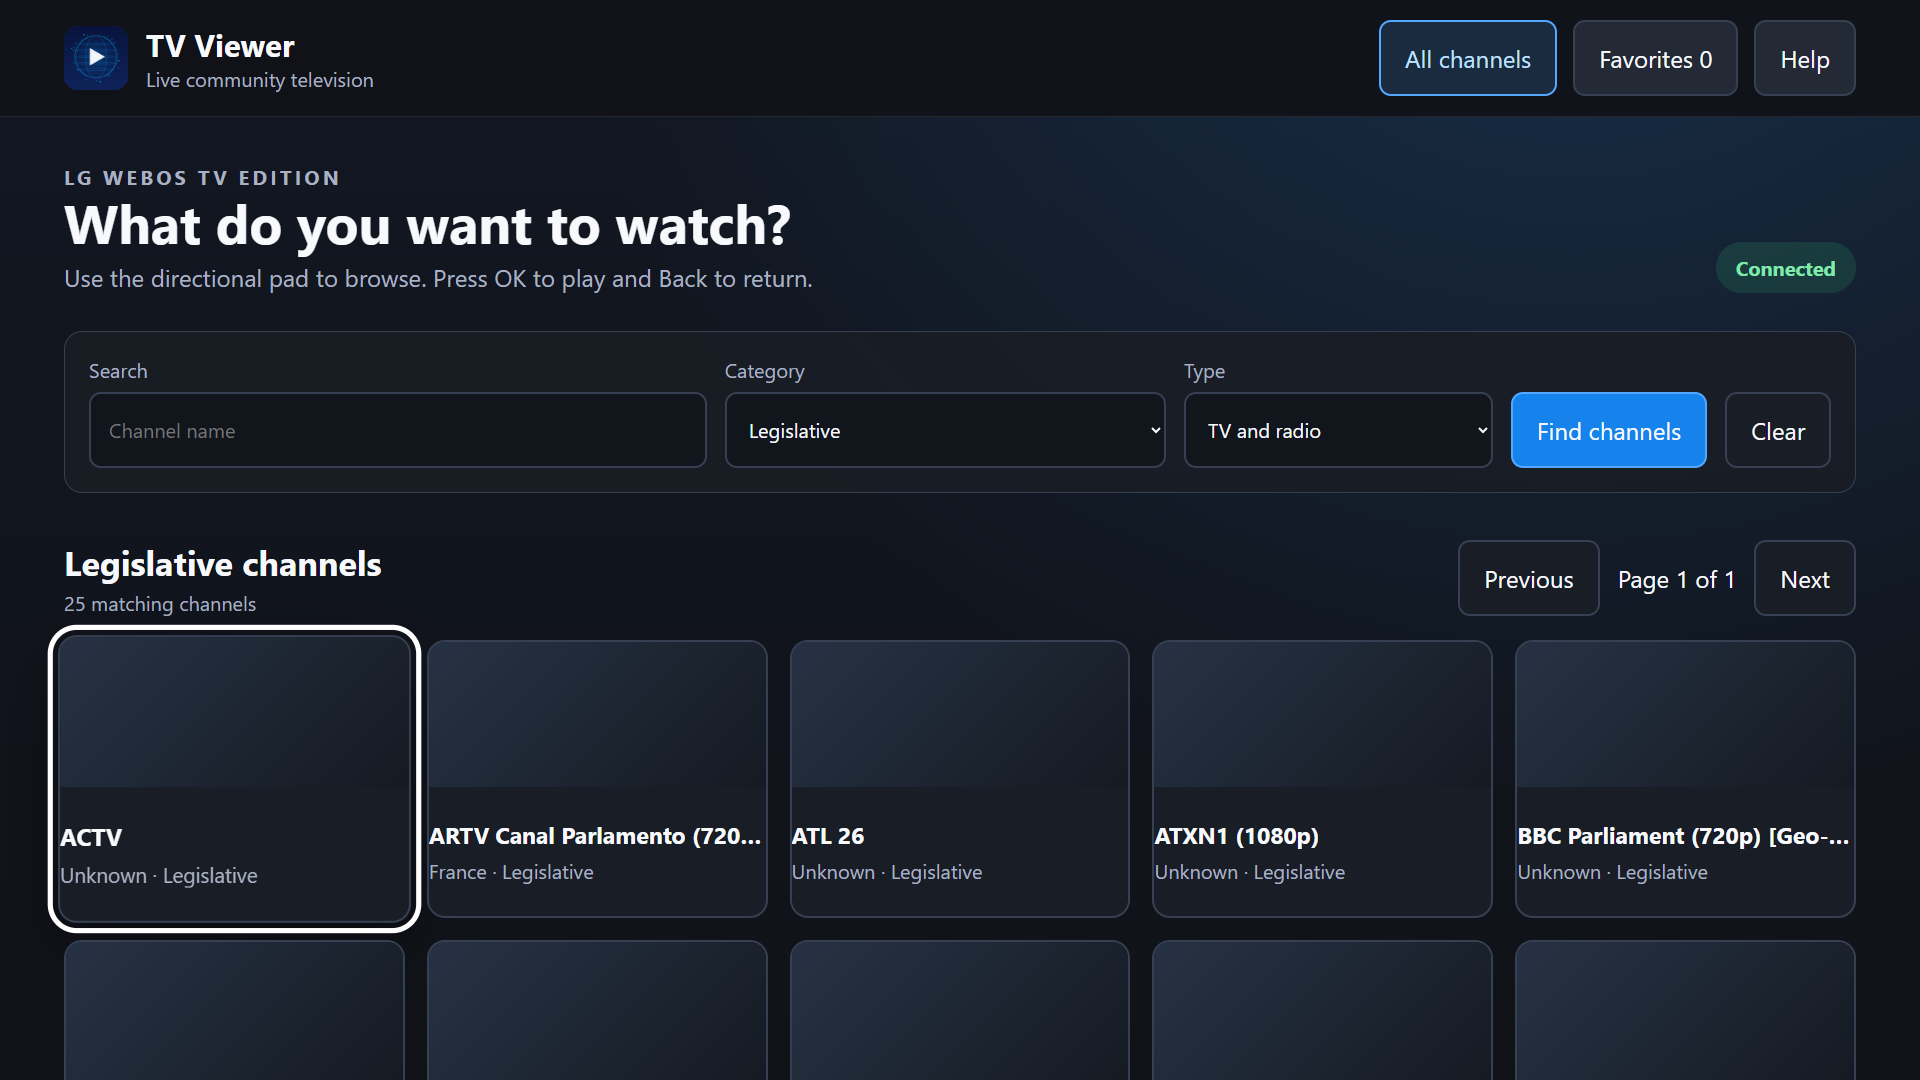
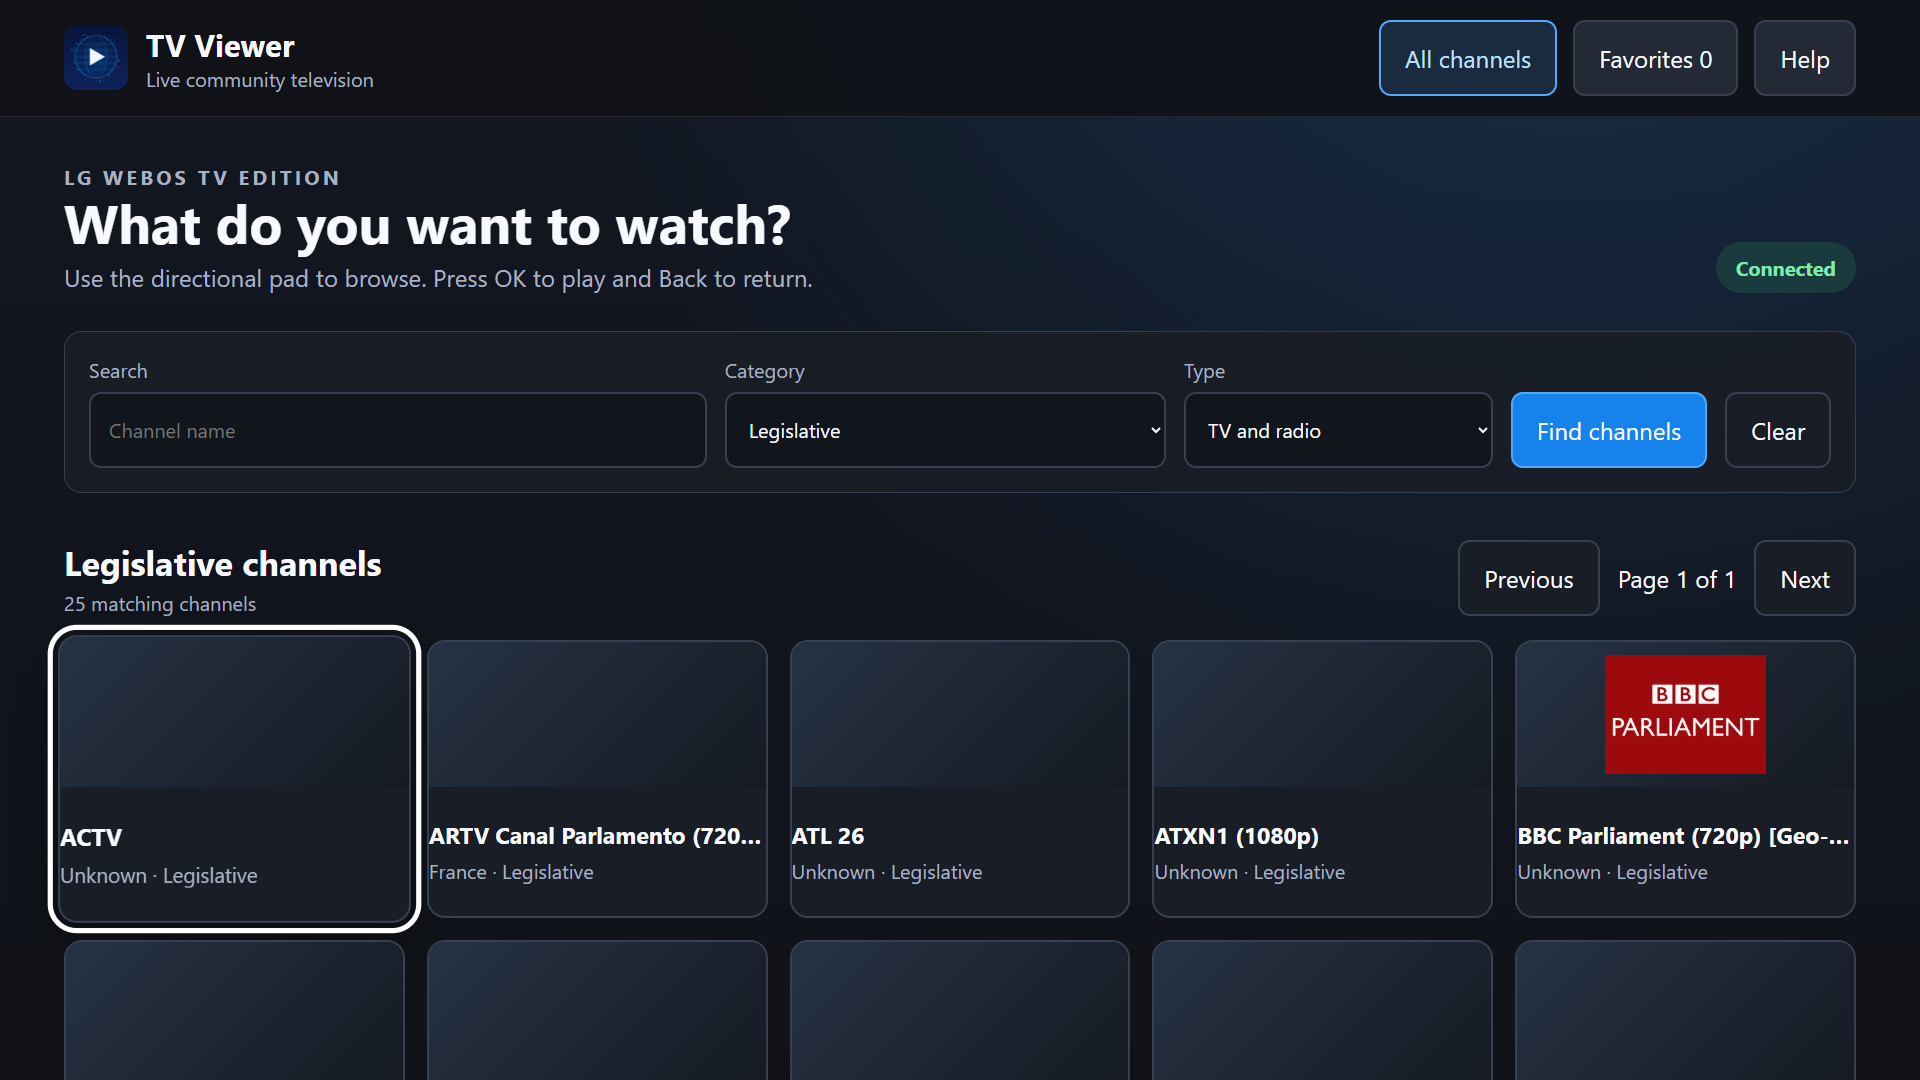
Prepare portable LG submission bundle with accurate QA disclosures

Changed region(s): [[0.8125, 0.5806, 0.9375, 0.7333]]

diff --git a/store-listings/lg-webos/tools/prepare_checklist.py b/store-listings/lg-webos/tools/prepare_checklist.py
@@ -1,4 +1,5 @@
 from copy import copy
+from datetime import date
 from pathlib import Path
 
 from openpyxl import load_workbook
@@ -11,7 +12,7 @@ OUTPUT = ROOT / "lg-self-evaluation-checklist-5.0-tv-viewer-draft.xlsx"
 
 PASS = {
     5: "Headless Chromium launch and packaged-app smoke test passed.",
-    6: "Main page, loading state, splash, overscan-safe layout, and 16:9 screenshots reviewed at 1920x1080.",
+    6: "Desktop browser checks cover the main page, loading state, and 16:9 screenshots at 1920x1080. TV overscan remains pending.",
     9: "Both 1920x1080 and 1280x720 IPKs are built and validated.",
     10: "English UI and Seller Lounge screenshots visually reviewed for clipping and broken text.",
     11: "All selectable controls implement a visible white focus outline and scale state.",
@@ -104,7 +105,7 @@ for sheet in wb.worksheets:
     sheet.freeze_panes = copy(sheet.freeze_panes)
 
 ws["N1"].comment = Comment(
-    "DRAFT prepared September 30, 2026. Yellow blank result cells require "
+    f"DRAFT prepared {date.today().isoformat()}. Yellow blank result cells require "
     "physical LG TV or webOS Cloud Test Lab verification before upload.",
     "TV Viewer",
 )

diff --git a/store-listings/lg-webos/tools/assemble_submission.py b/store-listings/lg-webos/tools/assemble_submission.py
@@ -259,6 +259,13 @@ def main() -> None:
         shutil.copy2(source, target)
         copied.append(target)
 
+    for source in sorted(UPLOAD_DIR.iterdir()):
+        if source.is_file():
+            target = BUNDLE_DIR / "upload-ready" / source.name
+            target.parent.mkdir(parents=True, exist_ok=True)
+            shutil.copy2(source, target)
+            copied.append(target)
+
     manifest = BUNDLE_DIR / "SHA256SUMS.txt"
     manifest.write_text(
         "\n".join(

diff --git a/PRIVACY_POLICY.md b/PRIVACY_POLICY.md
@@ -1,6 +1,6 @@
 # Privacy Policy — TV Viewer
 
-**Last Updated:** October 14, 2026
+**Last Updated:** October 16, 2026
 
 ## Overview
 
@@ -118,11 +118,21 @@ submissions are published when submitted.
 
 ## Content Disclaimer
 
-TV Viewer aggregates publicly available IPTV streams. Some channels may contain mature content. Users must confirm they are 18+ on first launch. Parental controls are available in Settings.
+The Android and desktop editions aggregate publicly available IPTV streams.
+Some channels may contain mature content. Their first-run flow requires an
+18+ confirmation; parental controls are available in Settings.
+
+The LG webOS edition instead limits discovery to public-interest categories
+and shows a content and privacy notice. It does not provide the Android
+Settings controls or an age-verification service. Category and name filtering
+cannot guarantee the suitability or distribution rights of every live stream.
 
 ## Children's Privacy
 
-This app is not intended for children under 18. We do not knowingly collect data from minors.
+TV Viewer is not directed at children. The Android and desktop editions require
+an 18+ confirmation. The LG edition's store age rating must be determined
+through LG's questionnaire and review, not inferred from its catalog filters.
+We do not knowingly collect data from minors.
 
 ## Changes to This Policy
 
@@ -130,6 +140,7 @@ We may update this policy with new app versions. Changes will be noted in the ap
 
 ## Contact
 
-For privacy questions or data deletion requests:
-- **GitHub Issues**: [github.com/tv-viewer-app/tv_viewer/issues](https://github.com/tv-viewer-app/tv_viewer/issues)
-- **GitHub Issues**: [Report a privacy concern](https://github.com/tv-viewer-app/tv_viewer/issues)
+For private privacy questions or data deletion requests, contact
+tvviewerapp@proton.me. Do not include personal data in public GitHub issues.
+For non-sensitive policy questions, use
+[GitHub Issues](https://github.com/tv-viewer-app/tv_viewer/issues).

diff --git a/store-listings/lg-webos/README.md b/store-listings/lg-webos/README.md
@@ -77,8 +77,22 @@ Generate one flat folder containing every file needed during Seller Lounge
 registration:
 
 ```powershell
+npm --prefix webos_app ci
+npm --prefix webos_app run validate
+npm --prefix webos_app run package
+npm --prefix webos_app run capture-store-assets
+npm --prefix webos_app run generate-ux-scenario
+python store-listings\lg-webos\tools\prepare_checklist.py
 python store-listings\lg-webos\tools\assemble_submission.py
 ```
+
+Before running `prepare_checklist.py`, download LG's official
+[App Self Checklist archive](https://webostv.developer.lge.com/assets/checklist/documents_for_app_qa.zip).
+Save its `self_evaluation_checklist_5.0.xlsx` as
+`store-listings\lg-webos\templates\lg-self-evaluation-checklist-5.0-original.xlsx`.
+The template and generated documents are intentionally not committed.
+Screenshot capture requires Microsoft Edge (or its path in `EDGE_PATH`).
+Browser checks are preparation evidence, not LG device certification.
 
 Use:
 
@@ -90,6 +104,12 @@ store-listings\lg-webos\upload-ready\
 to upload. The folder includes both IPKs, the 400x400 app icon, the 1920x1080
 launcher background, screenshots, QA documents, privacy policy, and store
 listing copy.
+
+The portable `dist\lg-webos-submission-v2.25.0.zip` also includes this flat
+`upload-ready` folder, both field guides, and SHA-256 manifests. The checklist
+is a draft until the pending device and content-review cases are completed.
+Screenshots are desktop-browser illustrations; the player-controls image uses
+the app poster and is not evidence of successful stream playback.
 
 ## Certification notes
 

diff --git a/store-listings/lg-webos/SUBMISSION_STATUS.md b/store-listings/lg-webos/SUBMISSION_STATUS.md
@@ -1,6 +1,6 @@
 # LG Content Store submission status
 
-**Prepared:** October 1, 2026
+**Prepared:** October 16, 2026
 **App:** TV Viewer
 **Package ID:** `app.tvviewer.webos`
 **Version:** 2.25.0
@@ -11,7 +11,7 @@ review, and certification approval remain open.
 
 | Workstream | Status | Evidence |
 |---|---|---|
-| webOS application | Ready for device validation | FHD and HD IPKs build from the same validated source |
+| webOS application | Ready for device validation | Both IPKs rebuilt locally on October 16; source validation and browser navigation/screenshot checks passed |
 | Store metadata | Prepared | Listing copy and exact field values below |
 | Store artwork | Prepared | 400x400 icon, 1920x1080 splash, four FHD screenshots |
 | UX scenario | Prepared | `TV-Viewer-LG-webOS-UX-Scenario-v2.25.0.pptx` |
@@ -94,6 +94,14 @@ fallback.
    evidence exists.
 6. Complete the Seller Lounge age-rating questionnaire.
 7. Upload the final artifacts and submit for LG review.
+
+The LG package remains 2.25.0 independently of the Android/desktop 2.25.5
+candidate: no LG runtime changes require a version bump. The submission bundle
+includes the current privacy policy, not just the policy from its initial build.
+Reconfirm LG's UK data-collection and sharing answers against that policy:
+the app has no analytics or health reporting, but Supabase and stream providers
+receive connection metadata when serving requests. Do not treat the table's
+proposed answers as a legal or LG classification determination.
 
 ## Go/no-go rule
 
